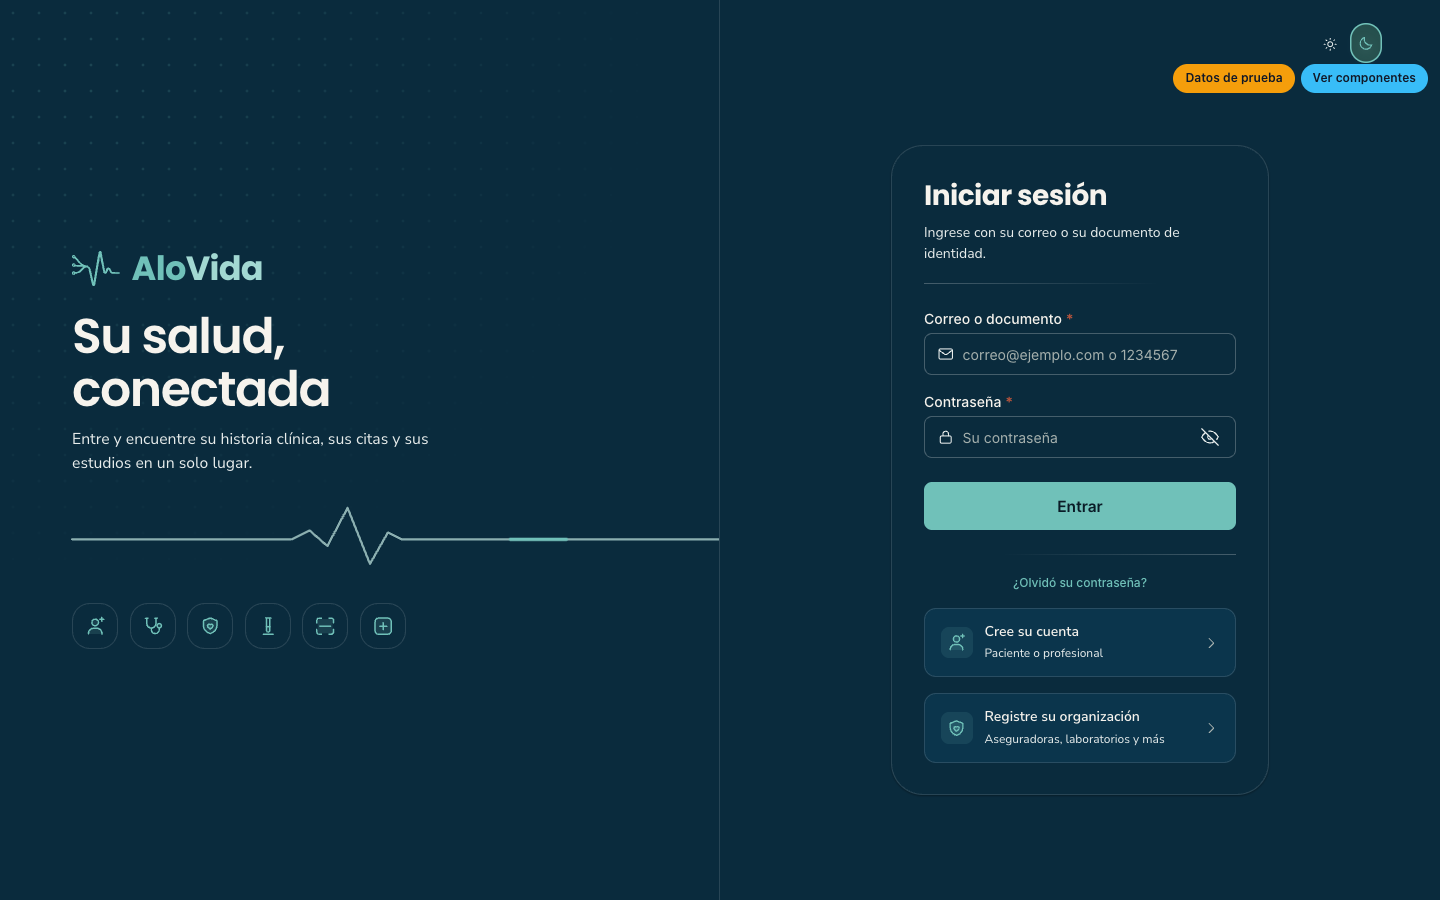
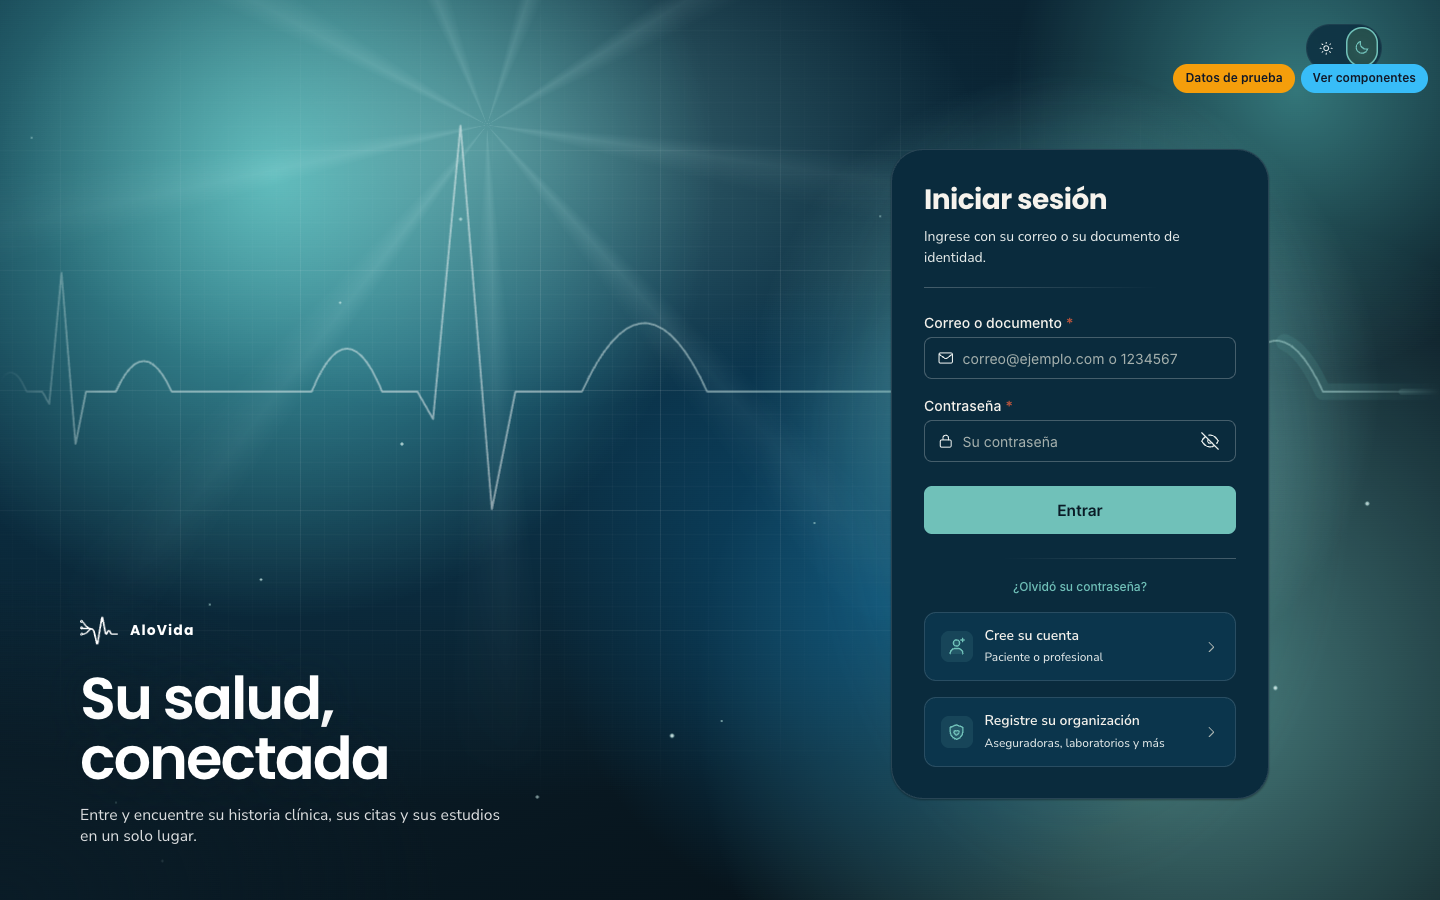
fix(login): devolver la portada con la onda orquestada (scene="stage")
El commit anterior dejó el login en scene="calm": fondo blanco y una línea de
latido pequeña, sin la onda grande, la constelación ni el brillo. La onda de la
portada no se toca. El login vuelve a scene="stage"; los registros siguen en
calm. Capturas del login rehechas en 1440 claro, 1440 oscuro y 390.

Claude-Session: https://claude.ai/code/session_01YG2fxKRVb2Gx8HUDWMKuaE

diff --git a/src/app/features/auth/login/login.html b/src/app/features/auth/login/login.html
@@ -1,5 +1,5 @@
 <app-auth-split
-  scene="calm"
+  scene="stage"
   claim="Su salud, conectada"
   tagline="Entre y encuentre su historia clínica, sus citas y sus estudios en un solo lugar."
 >
